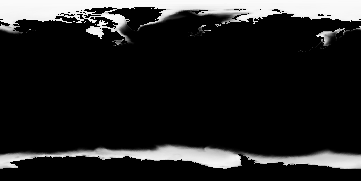
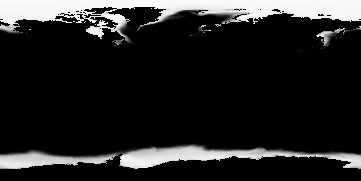
Sea ice: today's Antarctic ice no longer mirrored east–west (#1007)
polar_xy projected the south as x = ρ·sin(−λ); NSIDC's south polar
stereographic grid (EPSG:3412) has x = ρ·sin(λ). Snyder's south formulas
negate latitude, longitude, x and y, and x was left unnegated, so today's
Antarctic sea ice was sampled from the opposite side of the continent:
empty along the Ross, Amundsen, Bellingshausen and Weddell coasts, where
the mirror fell on East Antarctica's land flags.

The test now checks points off the 0° meridian (90° E, 90° W and the
Antarctic Peninsula's tip). The two NSIDC maps are regenerated; extent is
unchanged, as a mirror keeps area. The LGM model maps are unaffected.

Changed region(s): [[0.0, 0.7735, 1.0, 0.9392]]

diff --git a/data-pipeline/src/histeclipse_pipeline/seaice.py b/data-pipeline/src/histeclipse_pipeline/seaice.py
@@ -134,7 +134,11 @@ def _t(latitude: Grid) -> Grid:
 
 
 def polar_xy(grid: PolarGrid, latitude: Grid, longitude: Grid) -> tuple[Grid, Grid]:
-    """Project latitude and longitude (degrees) onto a polar grid: x and y in metres (Snyder)."""
+    """Project latitude and longitude (degrees) onto a polar grid: x and y in metres (Snyder).
+
+    Snyder's south formulas are the north's with latitude, longitude, x and y all negated: in the
+    south x runs towards 90° E (NSIDC's grid has the Antarctic Peninsula at its upper left).
+    """
     sign = 1.0 if grid.north else -1.0
     phi_c = math.radians(TRUE_SCALE_LATITUDE)
     m_c = math.cos(phi_c) / math.sqrt(1 - (HUGHES_E * math.sin(phi_c)) ** 2)
@@ -142,7 +146,7 @@ def polar_xy(grid: PolarGrid, latitude: Grid, longitude: Grid) -> tuple[Grid, Gr
     rho = HUGHES_A * m_c * _t(sign * latitude) / t_c
     lam = np.radians(sign * (longitude - grid.central_longitude))
     return (
-        np.asarray(rho * np.sin(lam), dtype=np.float64),
+        np.asarray(sign * rho * np.sin(lam), dtype=np.float64),
         np.asarray(-sign * rho * np.cos(lam), dtype=np.float64),
     )
 

diff --git a/data-pipeline/tests/test_seaice.py b/data-pipeline/tests/test_seaice.py
@@ -97,6 +97,14 @@ def test_projects_onto_nsidc_polar_grids() -> None:
     x, y = polar_xy(SOUTH, np.array([-70.0]), np.array([0.0]))
     assert x[0] == pytest.approx(0.0, abs=1e-6)
     assert y[0] == pytest.approx(2.2e6, rel=0.02)
+    # East is to the right, as on NSIDC's south grid (#1007): not mirrored.
+    x, y = polar_xy(SOUTH, np.array([-70.0, -70.0, -64.0]), np.array([90.0, -90.0, -57.0]))
+    assert x[0] == pytest.approx(2.2e6, rel=0.02)
+    assert y[0] == pytest.approx(0.0, abs=1e-3)
+    assert x[1] == pytest.approx(-2.2e6, rel=0.02)
+    # The Antarctic Peninsula's tip: upper left.
+    assert x[2] < 0
+    assert y[2] > 0
 
 
 def test_samples_each_hemisphere_from_its_own_grid() -> None:
